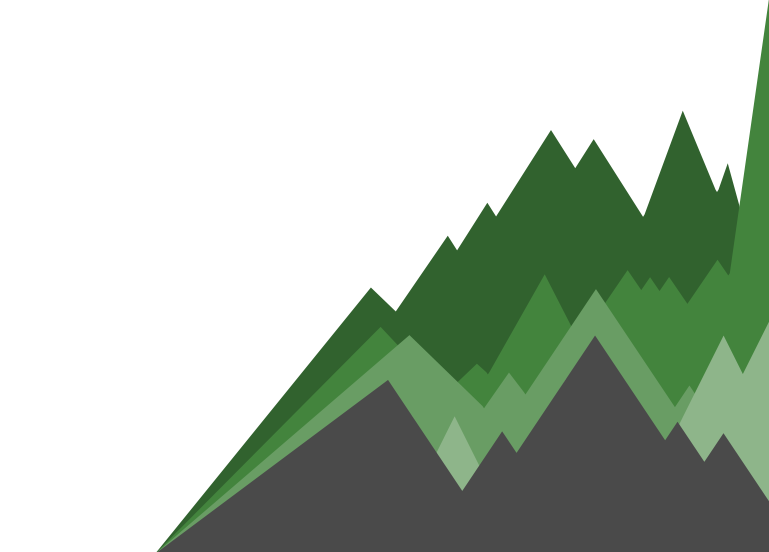
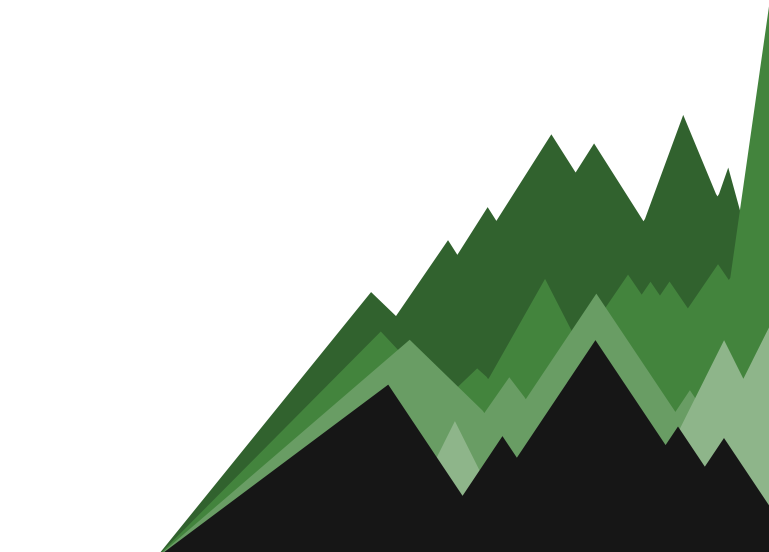
test

diff --git a/static/css/code-machine.css b/static/css/code-machine.css
@@ -42,7 +42,7 @@
 }
 
 #service {
-    background-color: #f7f6f6;
+    background-color: #171717;
 }
 
 #margin-machine-sigup {
